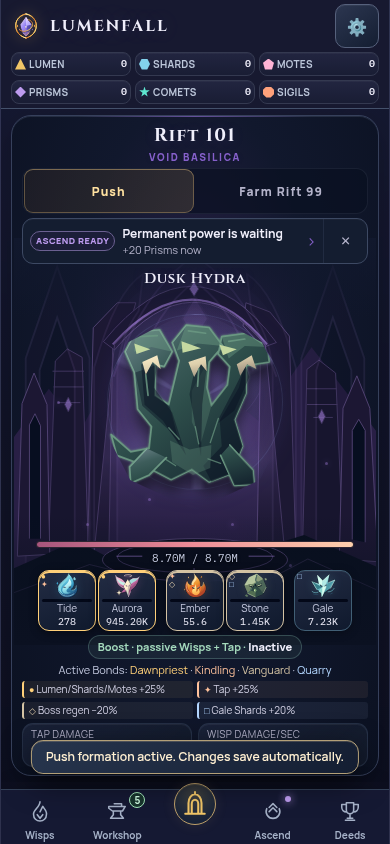
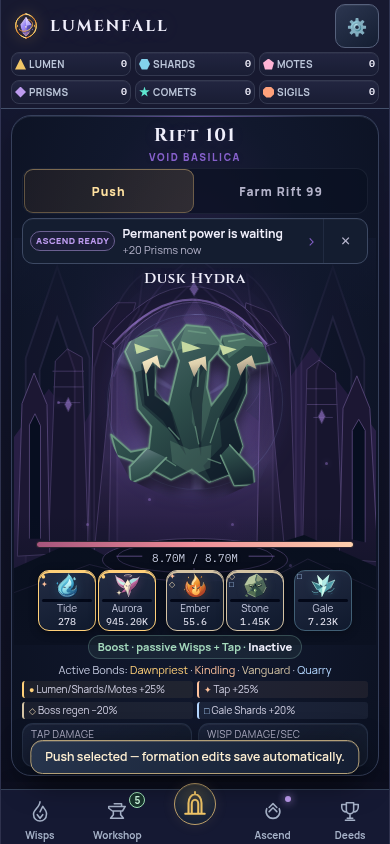
test(bonds): record combined autosave mobile and V8 checks

Changed region(s): [[0.1231, 0.8934, 0.9231, 0.9242], [0.0615, 0.8934, 0.0923, 0.9242]]

diff --git a/docs/tasks/FORMATION_BONDS_001.md b/docs/tasks/FORMATION_BONDS_001.md
@@ -96,6 +96,8 @@ raw logs retained. Corrected overlap checks preserve adjacency for disjoint
 primary pairs and require every membership mark/name. Old numeric policy keeps
 an exact archived counterfactual; actual new policy retains long/split checks.
 Local daily retry exceeds its60s harness budget; hosted CI passed that scenario.
+Reconciled source8a19001f: eight core groups/six mutations, nine focused
+checks, autosave contract and12 mobile profiles PASS. V8 6.0 probe PASS.
 No timeout/acceptance tolerance is weakened. Reconciliation preserves every integrated F14 function and test; only F15
 mechanics/presentation/clock hunks apply above main. No independent review claimed.
 
